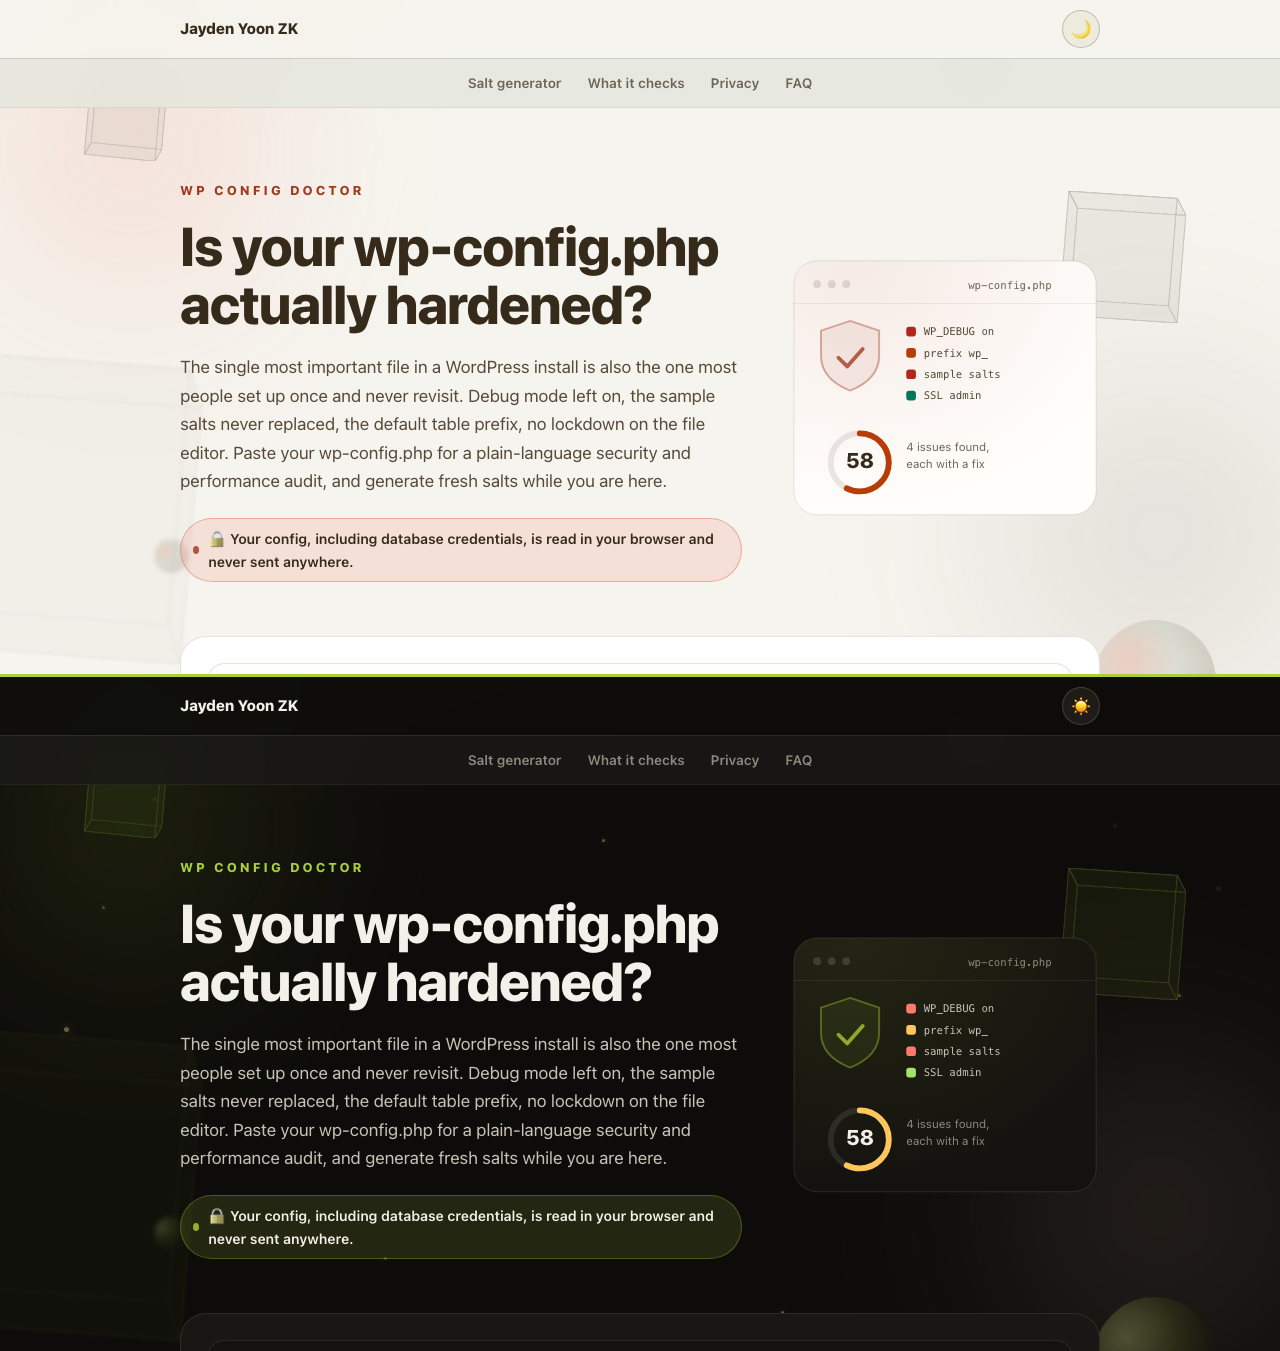
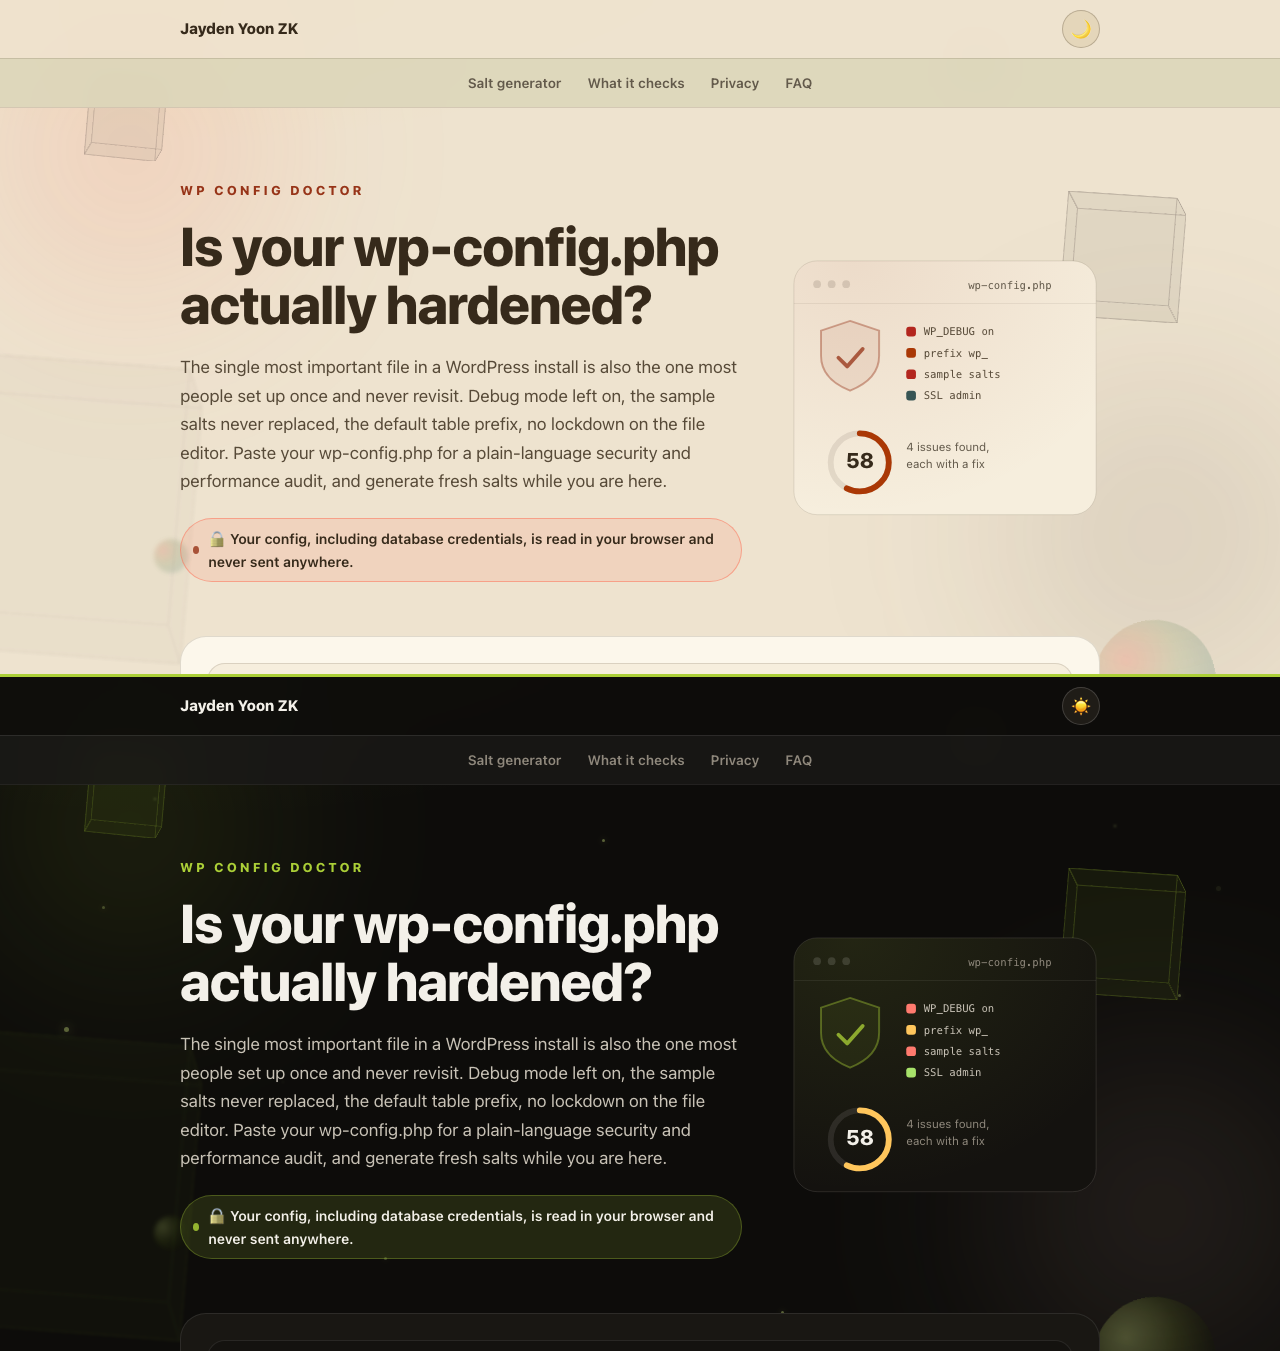
Adopt the studio light palette (v1.3.4)
Light mode adopts the palette chosen from design references: sand
background, warm ivory cards, coral primary buttons with dark ink text,
sage and gold and teal washes under the verdict pills, dark green and
indigo as their text colors, and a coral, sage, and teal decorative
scene. Every rendered text pair measures 4.5:1 or better. Dark theme
untouched. README preview regenerated.

diff --git a/docs/styles.css b/docs/styles.css
@@ -533,32 +533,32 @@ button:focus-visible, a:focus-visible { outline: 2px solid var(--accent); outlin
 /* Light theme */
 html[data-theme="light"] {
   color-scheme: light;
-  --bg: #f6f4ee;
-  --bg-raise: #fffefb;
-  --panel: #ffffff;
-  --panel-2: #edeade;
-  --line: rgba(30, 24, 12, 0.12);
-  --line-strong: rgba(30, 24, 12, 0.22);
+  --bg: #eee3cf;
+  --bg-raise: #f6eedd;
+  --panel: #fcf7eb;
+  --panel-2: #e4d6ba;
+  --line: rgba(58, 45, 28, 0.15);
+  --line-strong: rgba(58, 45, 28, 0.26);
   --ink: #362a1b;
   --ink-soft: #574a38;
-  --ink-mute: #6e6556;
-  --accent: #a03920;
-  --accent-soft: rgba(232, 96, 76, 0.14);
-  --green: #03765a; --green-soft: rgba(190, 203, 182, 0.3);
-  --amber: #b83c08; --amber-soft: rgba(255, 159, 10, 0.14);
-  --red: #b3261e; --red-soft: rgba(255, 69, 58, 0.1);
-  --blue: #1d63c4; --blue-soft: rgba(10, 132, 255, 0.11);
-  --nav-bg: rgba(246, 244, 238, 0.85);
-  --subnav-bg: rgba(143, 163, 135, 0.14);
+  --ink-mute: #635a4b;
+  --accent: #973418;
+  --accent-soft: rgba(254, 110, 84, 0.14);
+  --green: #375554; --green-soft: rgba(147, 168, 108, 0.32);
+  --amber: #aa3805; --amber-soft: rgba(252, 219, 153, 0.5);
+  --red: #b3261e; --red-soft: rgba(255, 69, 58, 0.12);
+  --blue: #363d6e; --blue-soft: rgba(64, 165, 160, 0.18);
+  --nav-bg: rgba(238, 227, 207, 0.85);
+  --subnav-bg: rgba(147, 168, 108, 0.18);
 }
 html[data-theme="light"] body {
-  background-image: radial-gradient(1100px 500px at 15% -5%, rgba(232, 110, 80, 0.1), transparent 60%);
+  background-image: radial-gradient(1100px 500px at 15% -5%, rgba(249, 201, 11, 0.12), transparent 60%);
 }
-html[data-theme="light"] .to-top { background: var(--accent); border-color: var(--accent); color: #ffffff; }
-html[data-theme="light"] .to-top:hover { background: #8a3019; border-color: #8a3019; }
-html[data-theme="light"] button.primary { background: var(--accent); border-color: var(--accent); color: #ffffff; }
-html[data-theme="light"] button.primary:hover { background: #8a3019; box-shadow: 0 6px 22px rgba(160, 57, 32, 0.35); }
-html[data-theme="light"] .privacy { border-color: rgba(232, 96, 76, 0.45); }
+html[data-theme="light"] .to-top { background: #fe6e54; border-color: #fe6e54; color: #362a1b; }
+html[data-theme="light"] .to-top:hover { background: #fe7a61; border-color: #fe7a61; }
+html[data-theme="light"] button.primary { background: #fe6e54; border-color: #fe6e54; color: #362a1b; }
+html[data-theme="light"] button.primary:hover { background: #fe7a61; box-shadow: 0 6px 22px rgba(254, 110, 84, 0.4); }
+html[data-theme="light"] .privacy { border-color: rgba(254, 110, 84, 0.5); }
 
 /* Background scene: depth-of-field drift with scroll parallax */
 .bg-scene {
@@ -673,10 +673,10 @@ html[data-theme="light"] .star { opacity: 0 !important; animation: none; }
 .p11 { right: 17%; top: 52%; width: 30px; height: 30px; --sfac: 0.06; --depth: 7; --dxt: 31s; --dyt: 39s; --dxa: 16px; --dya: 20px; filter: blur(2px); opacity: 0.4; }
 
 html[data-theme="light"] .bg-scene { --face-bg: rgba(84, 71, 65, 0.05); --face-line: rgba(84, 71, 65, 0.3); }
-html[data-theme="light"] .orb-a { background: radial-gradient(circle, rgba(232, 96, 76, 0.16), transparent 65%); }
+html[data-theme="light"] .orb-a { background: radial-gradient(circle, rgba(254, 110, 84, 0.18), transparent 65%); }
 html[data-theme="light"] .orb-b { background: radial-gradient(circle, rgba(84, 71, 65, 0.14), transparent 65%); }
 html[data-theme="light"] .sph .inner {
-  background: radial-gradient(circle at 31% 28%, rgba(232, 120, 90, 0.5), rgba(143, 163, 135, 0.35) 42%, rgba(120, 80, 60, 0.25) 78%, transparent 100%);
+  background: radial-gradient(circle at 31% 28%, rgba(254, 110, 84, 0.45), rgba(147, 168, 108, 0.4) 42%, rgba(64, 165, 160, 0.28) 78%, transparent 100%);
   box-shadow: inset -14px -12px 28px rgba(60, 60, 40, 0.18);
 }
 
@@ -819,6 +819,6 @@ button:disabled { pointer-events: auto; }
    dark theme's chartreuse constants. */
 html[data-theme="light"] textarea:focus,
 html[data-theme="light"] input[type="text"]:focus,
-html[data-theme="light"] input[type="search"]:focus { border-color: rgba(232, 96, 76, 0.55); }
-html[data-theme="light"] button:not(.primary):not(:disabled):hover { border-color: rgba(160, 57, 32, 0.45); }
-html[data-theme="light"] .chip.ok { border-color: rgba(3, 118, 90, 0.4); }
+html[data-theme="light"] input[type="search"]:focus { border-color: rgba(254, 110, 84, 0.6); }
+html[data-theme="light"] button:not(.primary):not(:disabled):hover { border-color: rgba(151, 52, 24, 0.45); }
+html[data-theme="light"] .chip.ok { border-color: rgba(55, 85, 84, 0.45); }

diff --git a/docs/index.html b/docs/index.html
@@ -22,7 +22,7 @@
       document.documentElement.dataset.theme = t;
     })();
   </script>
-  <link rel="stylesheet" href="styles.css?v=20260710b">
+  <link rel="stylesheet" href="styles.css?v=20260710c">
   <script type="application/ld+json">
   {
     "@context": "https://schema.org",
@@ -196,6 +196,6 @@
 </footer>
 
 <button id="to-top" class="to-top" type="button" aria-label="Back to top">&#8593;</button>
-<script type="module" src="app.js?v=20260710b"></script>
+<script type="module" src="app.js?v=20260710c"></script>
 </body>
 </html>

diff --git a/docs/app.js b/docs/app.js
@@ -1,4 +1,4 @@
-import { audit, generateSalts } from "./config.js?v=20260710b";
+import { audit, generateSalts } from "./config.js?v=20260710c";
 
 const $ = (id) => document.getElementById(id);
 const esc = (s) => String(s).replace(/&/g, "&amp;").replace(/</g, "&lt;").replace(/>/g, "&gt;").replace(/"/g, "&quot;").replace(/'/g, "&#39;");

diff --git a/CHANGELOG.md b/CHANGELOG.md
@@ -3,6 +3,13 @@
 All notable changes to this project are documented here.
 The format is based on [Keep a Changelog](https://keepachangelog.com/en/1.1.0/).
 
+## [1.3.4] - 2026-07-10
+
+### Changed
+
+- Light mode now uses the studio palette chosen from design references: sand background #EEE3CF, warm ivory cards, coral #FE6E54 primary buttons with dark ink text (mirroring dark mode's dark-on-chartreuse buttons), a deep coral accent for links and highlights, sage #93A86C washes with the dark green #375554 as success text, a pale gold #FCDB99 wash under warning pills, teal #40A5A0 washes with indigo #363D6E as info text, and a coral, sage, and teal decorative scene. Every rendered text pair measures 4.5:1 or better on the live page, and the dark theme is untouched.
+- The README preview is regenerated for the new palette.
+
 ## [1.3.3] - 2026-07-10
 
 ### Changed
@@ -131,6 +138,7 @@ First stable release.
 - Dependency-free ES module engine (docs/config.js) with 10 Node tests.
 - Browser UI in the shared suite design with light and dark themes and a ?demo deep link.
 
+[1.3.4]: https://github.com/JaydenYoonZK/wp-config-doctor/releases/tag/v1.3.4
 [1.3.3]: https://github.com/JaydenYoonZK/wp-config-doctor/releases/tag/v1.3.3
 [1.3.2]: https://github.com/JaydenYoonZK/wp-config-doctor/releases/tag/v1.3.2
 [1.3.1]: https://github.com/JaydenYoonZK/wp-config-doctor/releases/tag/v1.3.1
